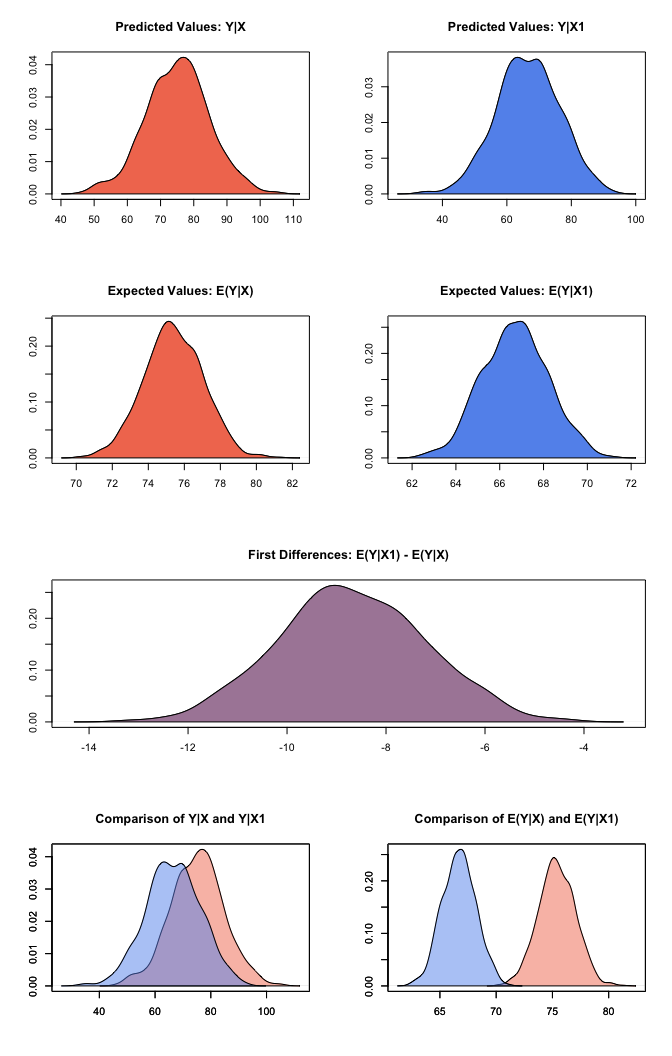
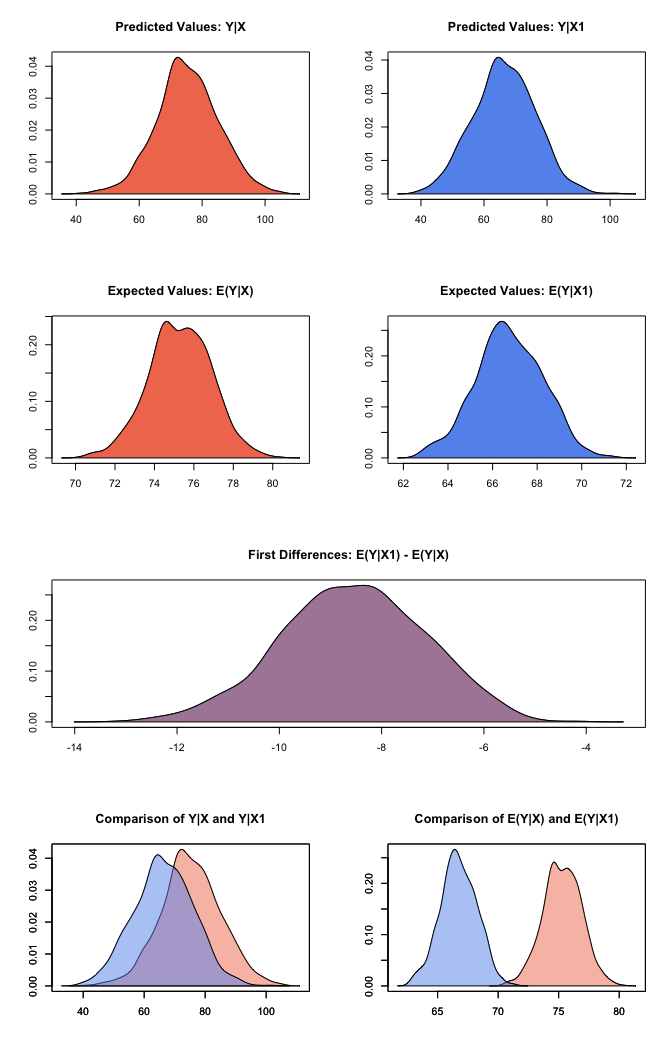
rewrite expand_grid_set range to work with poly, etc

diff --git a/README.md b/README.md
@@ -179,23 +179,23 @@ After setting our predictor value, we simulate using the `sim()` method:
     ##  sim x :
     ##  -----
     ## ev
-    ##      mean       sd      50%     2.5%    97.5%
-    ## 1 75.3973 1.641186 75.35511 72.24058 78.52017
+    ##       mean      sd      50%     2.5%    97.5%
+    ## 1 75.29974 1.57494 75.31827 72.14839 78.37814
     ## pv
     ##          mean       sd      50%     2.5%    97.5%
-    ## [1,] 75.12236 9.553108 75.38577 54.72149 94.22092
+    ## [1,] 75.36313 9.818832 75.00779 56.26663 94.73028
     ## 
     ##  sim x1 :
     ##  -----
     ## ev
-    ##       mean      sd      50%     2.5%   97.5%
-    ## 1 66.70304 1.48891 66.71305 63.87968 69.6992
+    ##      mean       sd      50%     2.5%    97.5%
+    ## 1 66.7427 1.503565 66.66365 63.64063 69.57049
     ## pv
-    ##          mean       sd      50%     2.5%    97.5%
-    ## [1,] 66.51718 9.834028 66.46883 47.29906 85.94145
+    ##         mean       sd      50%     2.5%    97.5%
+    ## [1,] 66.4499 9.774919 66.30298 47.17897 85.37254
     ## fd
     ##        mean       sd       50%      2.5%     97.5%
-    ## 1 -8.694264 1.487509 -8.742431 -11.55693 -5.813111
+    ## 1 -8.557041 1.399663 -8.538386 -11.34729 -5.875406
 
 At this point, we’ve estimated a model, set the predictor value, and
 estimated easily interpretable quantities of interest. The `summary()`

diff --git a/NEWS.md b/NEWS.md
@@ -14,19 +14,21 @@ using multiply imputed data or bootstrapping and returns a list of coefficients,
 standard errors, z-values, and p-values combined across the estimations. Thanks
 to @vincentarelbundock for prompting. #229 
 
+- The following changes were primarily to re-established Zelig integration with
+WhatIf. #236
 
-## Minor changes
+  + Added `zelig_setx_to_df` for extracted fitted values created by `setx`.
+Originally intended to re-enable WhatIf integration.
 
-The following changes were primarily to re-established Zelig integration with
-WhatIf.
-
-- Added `zelig_setx_to_df` for extracted fitted values created by `setx`.
-Originally intended to re-enable WhatIf integration. #236
-
-- Fitted factor level variable values are returned in a single column (not
+  + Fitted factor level variable values are returned in a single column (not
 by parameter level) by `zelig_qi_to_df`.
 
-## Bug fixes
+- `setrange` (including `setx` used with a range of fitted values) now creates
+scenarios based on matches for equal length ranges. This enables `setx` to work
+with polynomials, splines, etc. (currently only when these are created outside
+of the `zelig` call. #238
+
+## Minor changes and bug fixes
 
 - Resolve a bug where appropriate `plot`s were not created for `mlogitbayes`.
 #206
